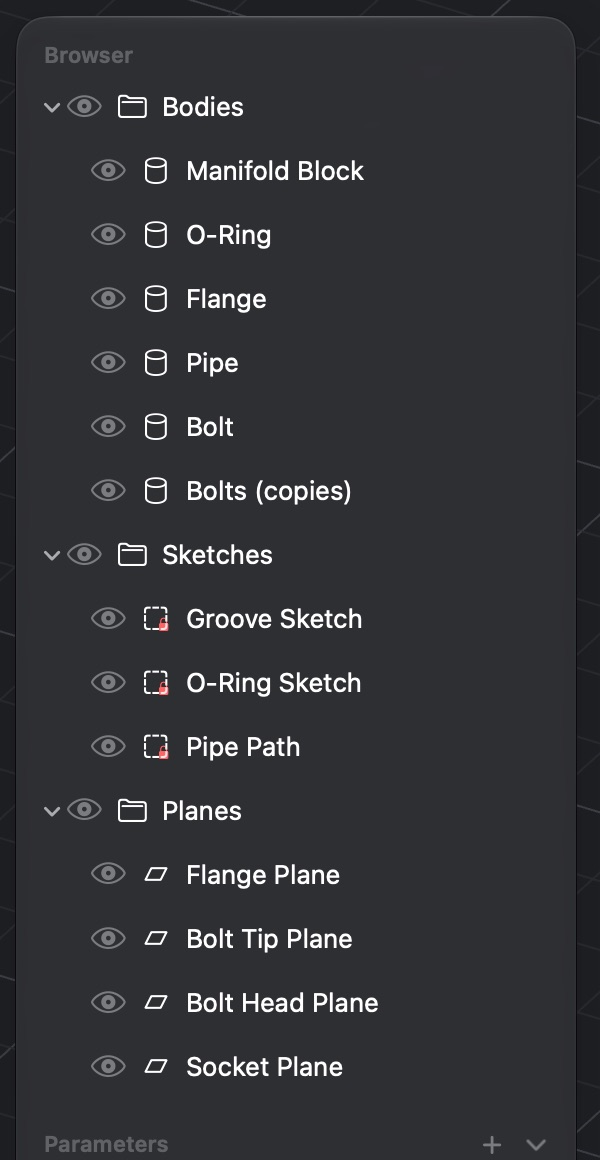
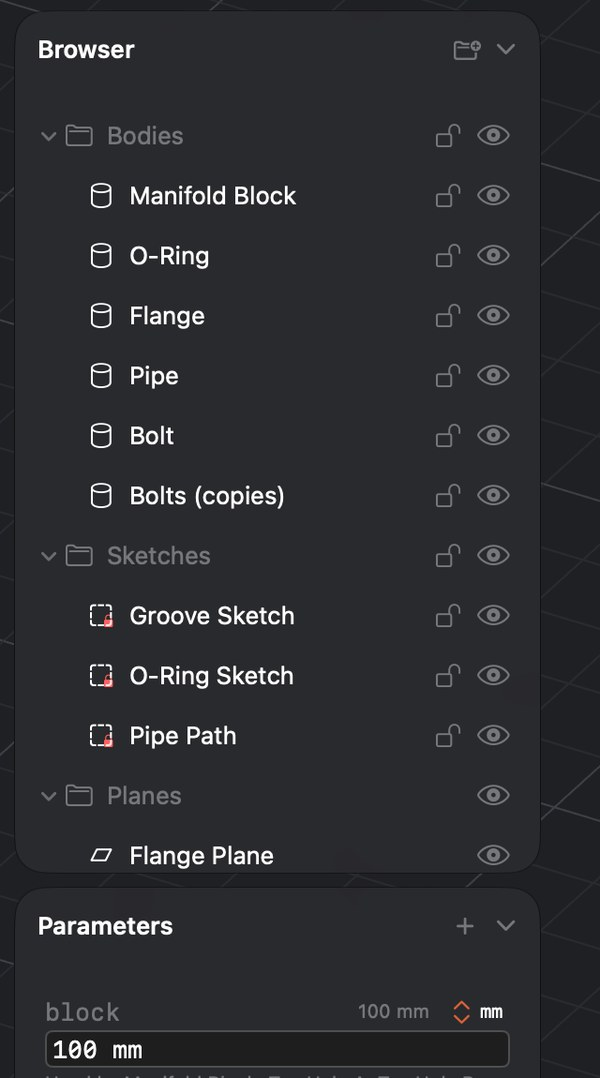
Docs: cover everything since 0.1.5, and retake the outdated screenshots
New pages: Work with an AI assistant, 3D Print Preview. Added: locking bodies and sketches, Slice View
and view roll while sketching, extrude Affected bodies, navigation presets and bindings, parameter
dragging and arrow-key nudging, copy and paste of bodies, parts opening as tabs, the 0.1.7 chamfer
and fillet refusals, and missing menu, toolbar and settings entries.

Screenshots: new browser-lock, print-preview, inspector-extrude-targets, sketch-slice-view; retaken
interface-overview, toolbar-design, toolbar-sketch, browser-panel, settings-navigation.
settings-ai is still to come (the page shows a placeholder for it).

diff --git a/website/src/docs/ai/assistant.md b/website/src/docs/ai/assistant.md
@@ -1,0 +1,90 @@
+---
+title: Work with an AI assistant
+description: Connect Claude to SimplMaker in one click, then let it build, change, check and look at your part while you watch.
+---
+
+SimplMaker can let an AI assistant work on your part. Connected to **Claude Desktop** or **Claude Code**, the assistant can see the parts you have open and change them while you watch. You ask in plain words, for example *"Make a key ring with my name on it, about 35 mm long and 3 mm thick"*, and the features appear on the [timeline](doc:concepts/timeline) one after another, with the sizes as [parameters](doc:concepts/parameters) you can change yourself afterwards.
+
+This is a beta feature. It is off until you turn it on.
+
+## What you need
+
+- A copy of SimplMaker with the AI connection included. If **Settings** has no **AI** pane, your version does not have it.
+- A running [trial](doc:reference/license) or a valid licence. The connection checks this on every request. Without one, the AI pane says *Waiting for a license* and starts by itself once the licence is valid.
+- Claude Desktop or Claude Code on the same Mac. [Get Claude](https://claude.ai/download) if you have neither.
+
+## Connect an assistant
+
+1. Open **SimplMaker → Settings…** and choose **AI**.
+2. Switch on **Let AI assistants work with SimplMaker**. The status line says whether it is off, waiting for an assistant, or connected.
+3. Under **Connect an assistant**, find the app you use.
+
+### Claude Desktop
+
+Press **Connect**. SimplMaker adds itself to Claude Desktop's list of tools. If Claude is already running it asks to **Quit and Reopen Claude**, because Claude only reads its list when it starts. Your conversations are kept, but anything you were in the middle of typing may be lost. When Claude is back, the button changes to **Connected**.
+
+### Claude Code
+
+Press **Copy Command** and paste it into a terminal once. It adds SimplMaker for every folder you use Claude Code in. The row says **Added**, and then **Connected** after Claude Code first reaches SimplMaker.
+
+If you have moved or reinstalled SimplMaker, the row says it was set up for another copy. Copy the command again to update it.
+
+![Settings, AI pane: the switch, the Connect buttons and what the assistant did.](shot:settings-ai)
+
+## Ask for something
+
+The pane lists a few things to try, each with a copy button:
+
+- *What's in my open SimplMaker part?*
+- *Make a key ring with the name Jane Doe on it, about 35 mm long and 3 mm thick.*
+- *Create a 60 × 40 × 20 mm box, then make it 10 mm taller.*
+
+The first time the assistant changes your part, Claude asks you for permission. Choose **Always allow** to stop it asking each time.
+
+## What the assistant can do
+
+- **Look.** Read the open parts, their features, bodies, sizes and parameters, what you have selected, and take a picture of the viewport. A picture can show only some bodies, cut the part open, or draw sketches.
+- **Build.** Make sketches and shapes: box, extrude, revolve, sweep, loft, pipe, rib, and the others in the toolbar.
+- **Finish.** Fillets, chamfers, holes, threads, shells, draft, project, move, scale, lay on floor, combine, split, mirror and pattern.
+- **Change.** Edit a feature, a sketch or a parameter, delete a feature, name, colour or hide a body, and undo or redo.
+- **Measure and check.** Measure distances and sizes. A **design check** looks over a part meant for printing and reports what is likely to go wrong: overhangs, thin walls and narrow gaps, tight or loose fits between separate bodies, a part that is bigger than the print bed or that floats above or sinks below the bed, and sizes that are not parameters. It only reports. It never changes anything.
+- **Files.** Export a part as STL or STEP, and import a STEP or STL file.
+- **Follow a guide.** A built-in design guide holds print-friendly sizes and recipes for things such as a snap-fit lid, a rounded box, a name tag, a screw-post case and a print-in-place hinge. The assistant reads it before it designs.
+
+The assistant works through the same features you use, so everything it makes is on the timeline and can be edited by hand.
+
+### Safe by design
+
+- **Every change is one step in Undo.** Press [[⌘Z]] to take it back.
+- **You see it happen.** The status bar says what the assistant is doing, such as *Creating Box1*.
+- **It sees only your open parts.** It cannot read other files on your Mac.
+- **Files go to one folder.** Exports are written to a folder called *SimplMaker Exports* in your Documents folder, and never over an existing file. Imports take only STEP and STL files that you give it a path to.
+
+## What the assistant did
+
+Under the connection settings, **What the assistant did** lists each action, newest first, with the time, which tool it used and how long it took. A tick is a change, an eye is something it only looked at, and a cross is something that failed. **Include looking** shows or hides the looking. **Copy** puts the whole log on the clipboard, and **Clear** empties it.
+
+## Advanced
+
+Open **Advanced** in the AI pane for what the connection is made of.
+
+| Item | What it is |
+|---|---|
+| **Address** | The local address SimplMaker listens on. It only answers on this Mac. |
+| **Secret** | A password that keeps other programs and websites from using the connection. **Show** reveals it and **Copy Secret** copies it. |
+| **Make a New Secret…** | Makes a new password. Every connection made with the old one stops working until you give it the new one. |
+| **Write Claude Desktop Configuration Again** | Repairs the Claude Desktop entry if you have changed it. |
+| **Copy Claude Code Command (network version)** | The same command as above, using the address instead of the built-in relay. |
+
+Anyone who has the secret and is on your Mac can read and change your open parts. Do not share it.
+
+## Turn it off
+
+Switch off **Let AI assistants work with SimplMaker**. SimplMaker stops answering assistants.
+
+## Good to know
+
+- Only **parts that are open** can be reached.
+- [Locking](doc:concepts/selecting) a body or sketch protects it from your own clicks. It does not stop the assistant, so tell it which parts to leave alone.
+- Browser folders and some newer options, such as choosing which bodies an extrude affects, are not yet available to the assistant.
+- An imported STL that is over the size limit has to be reduced first. The assistant cannot reduce it. Import it yourself with **File → Import → STL…**, which offers to reduce it.

diff --git a/website/src/docs/start/interface.md b/website/src/docs/start/interface.md
@@ -3,7 +3,7 @@ title: The interface
 description: Where everything is: the toolbar, browser, parameters, viewport, inspector and timeline.
 ---
 
-Each part opens in its own window with five areas.
+Each part opens as a tab, with five areas.
 
 ![The SimplMaker window: toolbar on top, browser on the left, viewport in the middle, inspector on the right, timeline along the bottom.](shot:interface-overview)
 
@@ -32,7 +32,7 @@ You start in design mode. The tools sit in groups, with the group's name underne
 | **Sketch** | Starts a sketch |
 | **Create** | [Extrude](doc:create/extrude), [Revolve](doc:create/revolve), [Sweep](doc:create/sweep), [Loft](doc:create/loft), [Rib](doc:create/rib), [Pipe](doc:create/pipe) |
 | **Shapes** | [Box, Cylinder, Sphere, Torus, Coil](doc:create/primitives) |
-| **Modify** | [Fillet and Chamfer](doc:modify/fillet-chamfer), [Hole](doc:modify/hole), [Thread](doc:modify/thread), [Shell](doc:modify/shell), [Draft](doc:modify/draft), [Project](doc:modify/project), [Move and Scale](doc:modify/move-scale), [Combine](doc:modify/combine) |
+| **Modify** | [Fillet and Chamfer](doc:modify/fillet-chamfer), [Hole](doc:modify/hole), [Thread](doc:modify/thread), [Shell](doc:modify/shell), [Draft](doc:modify/draft), [Project](doc:modify/project), [Move and Scale](doc:modify/move-scale), [Lay on Floor](doc:modify/lay-on-floor), [Combine](doc:modify/combine), [Split Body](doc:modify/split) |
 | **Construct** | [Plane](doc:create/plane), [Mirror and Pattern](doc:modify/mirror-pattern), [Canvas](doc:create/canvas) |
 | **Inspect** | [Measure](doc:modify/measure), [Section Analysis](doc:modify/section-analysis) |
 
@@ -52,7 +52,7 @@ Press **Sketch** and pick a plane or a face to enter sketch mode. The toolbar ch
 |---|---|
 | **Draw** | Line, Rectangle, Circle, Polygon, Arc, Spline, Gear, Point, Text |
 | **Modify** | Round Corner, Trim, Extend, Offset |
-| **Transform** | Move, Scale, Pattern |
+| **Transform** | Move, Scale, Pattern, Mirror |
 | **Constraints** | Dimension, Distance, Constrain, Construction |
 
 **Select** stands apart at the left. Press **Finish Sketch** at the right end to leave. See [Sketching](doc:sketch/start).
@@ -66,8 +66,10 @@ The browser lists what is in the part.
 - **Bodies**, **Sketches**, **Planes** and **Canvases** are folders. Planes and Canvases appear once you have some.
 - The eye beside a row shows or hides it. The eye on a folder shows or hides everything in it.
 - Make your own folders inside **Bodies** with the folder button in the browser header, or right-click **Bodies** and choose **New Folder**. A body's right-click menu has **Move to Folder**. Drag bodies onto a folder to fill it.
+- The **padlock** beside the eye locks a body or a sketch, so it cannot be picked or changed by accident. See [Lock bodies and sketches](doc:concepts/selecting).
 - Click a body to select it. **Double-click** to edit the feature that made it. Double-click a sketch to edit the sketch.
-- Right-click a row for more: rename, hide, suppress, move, appearance, export and delete.
+- Right-click a row for more: rename, hide, lock, suppress, move, appearance, export and delete.
+- The browser and the parameters are two separate panels. Each can be collapsed, and the divider between them can be dragged.
 - Below the folders are the **Parameters**. See [Parameters and expressions](doc:concepts/parameters).
 
 ## The viewport

diff --git a/website/src/docs/reference/menus.md b/website/src/docs/reference/menus.md
@@ -10,7 +10,7 @@ description: What is in each menu, and where to find every command.
 | **About SimplMaker** | Version, credits and open-source licences |
 | **Check for Updates…** | Looks for a new version |
 | **License…** | Enter or manage your licence key. Also **Buy SimplMaker…** during the trial. |
-| **Settings…** ([[⌘,]]) | The settings window. See [Settings](doc:reference/settings). |
+| **Settings…** ([[⌘,]]) | The settings window, including the AI connection. See [Settings](doc:reference/settings) and [Work with an AI assistant](doc:ai/assistant). |
 
 ## File
 
@@ -31,6 +31,8 @@ description: What is in each menu, and where to find every command.
 
 Standard **Undo** ([[⌘Z]]), **Redo** ([[⇧⌘Z]]), **Cut**, **Copy**, **Paste**, **Delete** and **Select All**.
 
+**Copy** and **Paste** also work on bodies: copy a body and paste it into the same part, another part or another window. It comes in as an imported body. See [Files](doc:concepts/files).
+
 ## View
 
 | Item | Does |
@@ -39,6 +41,7 @@ Standard **Undo** ([[⌘Z]]), **Redo** ([[⇧⌘Z]]), **Cut**, **Copy**, **Paste
 | **Standard Views** | Top, Front, Right and Home |
 | **Orthographic Projection** | Switches between perspective and orthographic |
 | **Visual Style** | Shaded, wireframe and hidden-edge styles |
+| **FDM 3D Print Preview** | Draw the bodies like a printed part, with layer lines. Shaded styles only. See [3D Print Preview](doc:print/print-preview). |
 | **Section Analysis** | Turn the cut through the bodies on or off (see [Section Analysis](doc:modify/section-analysis)) |
 | **Show Grid**, **Show Axes** | Toggle the reference lines |
 | **Show Constraints** | Show or hide sketch constraint symbols |
@@ -54,7 +57,7 @@ Standard **Undo** ([[⌘Z]]), **Redo** ([[⇧⌘Z]]), **Cut**, **Copy**, **Paste
 | **New Sketch…** | Starts a sketch: pick a plane or face |
 | **New Sketch On** | **XY Plane**, **XZ Plane**, **YZ Plane** or **Selected Face** |
 
-While you are editing a sketch, the menu also lists the sketch tools, **Offset Selection…**, **Move Selection**, **Scale Selection…**, **Pattern Selection**, **Mirror Selection** and **Finish Sketch**.
+While you are editing a sketch, the menu also lists the sketch tools, **Offset Selection…**, **Move Selection**, **Scale Selection…**, **Pattern Selection**, **Mirror Selection**, **Slice View** (see [Starting a sketch](doc:sketch/start)) and **Finish Sketch**.
 
 ## Create
 
@@ -70,7 +73,7 @@ While you are editing a sketch, the menu also lists the sketch tools, **Offset S
 
 ## Window
 
-Standard window commands, plus **Welcome to SimplMaker** ([[⇧⌘1]]), and the licence window.
+Standard window commands, including **Move Tab to New Window** and **Merge All Windows** (parts open as tabs), plus **Welcome to SimplMaker** ([[⇧⌘1]]), and the licence window.
 
 ## Help
 

diff --git a/website/src/docs/print/print-preview.md b/website/src/docs/print/print-preview.md
@@ -1,0 +1,42 @@
+---
+title: 3D Print Preview
+description: Look at a part the way an FDM printer would build it: layer lines, a top skin and the outer perimeters.
+---
+
+**FDM 3D Print Preview** draws your bodies as if they had been printed on a filament (FDM) printer. You see the layer lines on the walls, the diagonal skin on the top, and the lines the nozzle follows round the edge of each flat face. It is a quick way to judge how a part will look and feel before you slice it.
+
+It is a look, not a slice. SimplMaker does not make G-code, and the lines are an approximation. Use your slicer for the real thing.
+
+## Turn it on
+
+Choose **View → FDM 3D Print Preview**, or right-click in the viewport and choose **FDM 3D Print Preview**. Choose it again (the right-click item then says **Leave 3D Print Preview**) to turn it off.
+
+The preview is a view setting. It is not saved with the part, and it does not change the part. It works with the shaded [visual styles](doc:start/navigation) only, so the menu item is greyed out while a wireframe style is on. The body's edge lines are hidden while it is on, so the layers show.
+
+![A part in 3D Print Preview, with the options panel top left.](shot:print-preview)
+
+## Set the layer height and the nozzle
+
+A small panel opens in the top left corner of the view with two choices.
+
+| Option | Choices (mm) | What it changes |
+|---|---|---|
+| **Layer height** | 0.12, 0.16, 0.20, 0.24 | How far apart the layer lines are |
+| **Nozzle** | 0.2, 0.4, 0.6, 0.8 | How wide the perimeter lines are |
+
+The start is 0.20 mm and a 0.4 mm nozzle. The close button on the panel hides it. The preview stays on. The choices are kept until you quit SimplMaker. They are not saved with the part.
+
+## What to look for
+
+- **Layer lines** on walls that lean or curve show where a slope will look stepped. A smaller layer height makes the steps finer.
+- **Top surfaces** show the diagonal skin, so you can see how a flat top will look.
+- **Edges of flat faces** show two perimeter lines, the width of the nozzle you chose. A wall or rib that is only as thick as these lines is a sign it may be too thin to print well. See the [design tips](doc:print/design-tips).
+
+## Combine it with a cut
+
+The preview works together with [Section Analysis](doc:modify/section-analysis), so you can cut a part open and still see the layers on the outside.
+
+## Good to know
+
+- The options panel is not shown while you sketch.
+- In a wireframe style the bodies are drawn as usual, without layers. Go back to a shaded style and the preview is there again.

diff --git a/website/src/docs/start/navigation.md b/website/src/docs/start/navigation.md
@@ -13,7 +13,7 @@ description: Orbit, pan and zoom with a trackpad or mouse, the view cube, standa
 | Rotate with two fingers | **Spin** the view around the line of sight |
 | Drag on empty space | **Orbit** |
 
-If you would rather have scrolling orbit, and [[⇧]]-scrolling pan, change it in **Settings → Navigation**.
+These are the defaults. Choose another way of navigating, or change what each input does, in **Settings → Navigation**. See [Make navigation your own](doc:start/navigation#make-navigation-your-own) below.
 
 ## Mouse
 
@@ -23,7 +23,18 @@ If you would rather have scrolling orbit, and [[⇧]]-scrolling pan, change it i
 | Right-drag or middle-drag | **Pan** |
 | Scroll wheel | **Zoom** |
 
-**Settings → Navigation → Invert mouse-wheel zoom** reverses the wheel.
+While you sketch, hold [[⌥]] and drag on empty space to **roll** the view round on the paper.
+
+## Make navigation your own
+
+**Settings → Navigation** sets what the mouse, the wheel and the trackpad do.
+
+- **Navigate like** picks a ready-made set of controls that copies another 3D app: **SimplMaker**, **Blender**, **Fusion**, **Onshape** or **SolidWorks**. Your direction and speed choices stay as they are. Once you change any single control by hand, the list shows **Custom**.
+- **Mouse** and **Trackpad** list what each input does: the left, right and middle buttons, the wheel, and the trackpad's scroll. For each one you choose **Orbit**, **Pan**, **Zoom** or **Off**, separately for plain, [[⇧]], [[⌃]] and [[⌥]]. (**Roll**, for sketches, is also on the list.) The left button only navigates on empty space. On a face, an edge or a handle it picks or drags that instead.
+- **Rotate gesture spins the view** turns the trackpad's two-finger rotate on or off.
+- **Invert** switches reverse orbit up and down, orbit left and right, pan up and down, pan left and right, and zoom.
+- **Orbit speed** and **Zoom speed** are sliders.
+- **Reset Navigation** goes back to the SimplMaker controls.
 
 ## The view cube
 

diff --git a/website/src/docs/concepts/files.md b/website/src/docs/concepts/files.md
@@ -5,7 +5,9 @@ description: How parts are saved, autosave and versions, opening and importing f
 
 ## Parts are documents
 
-SimplMaker is a normal Mac document app. Each part opens in its own window, with **New** ([[⌘N]]), **Open** ([[⌘O]]), **Open Recent**, **Save** ([[⌘S]]), **Duplicate** and **Revert To**. Macs can also group windows as tabs: **Window → Merge All Windows**.
+SimplMaker is a normal Mac document app. Each part opens as a **tab** in the same window, and the tab bar shows even when only one part is open. The part's name is in its tab. Use **New** ([[⌘N]]), **Open** ([[⌘O]]), **Open Recent**, **Save** ([[⌘S]]), **Duplicate** and **Revert To** as in any Mac app. The **+** at the right end of the tab bar starts a new part.
+
+To give a part a window of its own, drag its tab out of the tab bar, or choose **Window → Move Tab to New Window**. **Window → Merge All Windows** brings separate windows back together as tabs.
 
 Parts are saved as `.simplmaker` files.
 
@@ -22,6 +24,14 @@ SimplMaker saves your work automatically and keeps earlier versions. Choose **Fi
 ## Open example parts
 
 **File → Open Example Parts** opens one of the built-in examples as a new untitled part. See [Examples and the tutorial](doc:start/examples-and-tutorial).
+
+## Copy and paste bodies
+
+Select a body and choose **Edit → Copy** ([[⌘C]]). Then **Edit → Paste** ([[⌘V]]) into the same part, into another part, or into a window of another document. The body travels as a STEP file on the clipboard.
+
+A pasted body arrives as an **Import** body, like any [imported](doc:concepts/files#import) part: its history stays behind, so you can fillet, cut or move it, but you cannot go back into the sketches that made it. The **Move** tool opens at once, so you can slide the copy off the original.
+
+To make a copy that keeps its history, use [Pattern](doc:modify/mirror-pattern) or **File → Duplicate** for the whole part.
 
 ## Import
 

diff --git a/website/src/docs/reference/settings.md b/website/src/docs/reference/settings.md
@@ -22,10 +22,15 @@ Open **SimplMaker → Settings…** ([[⌘,]]). The panes are along the top.
 
 | Setting | What it does |
 |---|---|
-| **Two-finger scroll** | **Pan** (like Apple's 3D viewers) or **Orbit** (like many CAD apps). Hold [[⇧]] while scrolling to do the other one. |
-| **Invert mouse-wheel zoom** | Reverses the wheel |
+| **Navigate like** | A ready-made set of controls: **SimplMaker**, **Blender**, **Fusion**, **Onshape** or **SolidWorks**. Shows **Custom** once you change a control by hand. |
+| **Mouse** | What the left, right and middle buttons and the wheel do, with and without [[⇧]], [[⌃]] or [[⌥]]: **Orbit**, **Pan**, **Zoom** or **Off** |
+| **Trackpad** | What two-finger scroll does (**Pan** like Apple's 3D viewers, or **Orbit** like many CAD apps), and whether the rotate gesture spins the view |
+| **Invert** | Orbit up and down, orbit left and right, pan up and down, pan left and right, and zoom (wheel, scroll and drag) |
+| **Orbit speed**, **Zoom speed** | How fast the view turns and zooms |
+| **Reset Navigation** | Back to the SimplMaker controls |
 
-Pinch zooms, rotate spins the view, and dragging on empty space orbits.
+The details are in [Navigating the view](doc:start/navigation#make-navigation-your-own).
+
 
 ## Viewport
 
@@ -40,6 +45,10 @@ Pinch zooms, rotate spins the view, and dragging on empty space orbits.
 | **Antialiasing** | Smooths jagged edges: **Off**, **2×**, **4×** or **8×**. Takes effect the next time SimplMaker starts. 4× is hardly noticeable on Apple silicon. |
 | **Show axes** | Shows the coordinate axes |
 | **Show sketch constraints** | Shows the constraint symbols |
+
+## AI
+
+Appears in the settings window when this version of SimplMaker includes the AI connection. It connects an AI assistant such as Claude to SimplMaker. See [Work with an AI assistant](doc:ai/assistant).
 
 ## Shortcuts
 

diff --git a/website/src/docs/create/extrude.md b/website/src/docs/create/extrude.md
@@ -49,6 +49,18 @@ A curved line with a **dot** hangs above the arrow. Drag the dot round the line 
 
 With Two Directions or Mirrored, the sides lean away from the sketch plane on both sides, so the shape has a ridge there. A taper that would close the shape up before it reaches the end fails with a message, and the last good shape stays on screen.
 
+## Choose which bodies it affects
+
+When the **Operation** is **Join**, **Cut** or **Intersect**, the inspector lists the bodies that exist before the extrude under **Affected bodies**. Tick the ones it should work on.
+
+- **Automatic** is the start. A **Cut** removes material from every body the shape passes through. A **Join** or **Intersect** works on the newest body.
+- **Join** with more than one body ticked merges them all into one.
+- **Cut** skips a ticked body the shape does not reach.
+- Untick everything and the extrude has nothing to work on, so it shows an error.
+- **Choose Automatically** goes back to the automatic choice.
+
+![Affected bodies in the extrude inspector.](shot:inspector-extrude-targets)
+
 ## Extrude a face
 
 Select a **flat face** of a body and press [[E]] to pull it out. A negative distance pushes it in. Only flat faces can be extruded.
@@ -64,6 +76,7 @@ Select a **flat face** of a body and press [[E]] to pull it out. A negative dist
 | **Distance** | How far. It takes expressions. |
 | **Taper** | The angle the sides lean, in degrees. Negative narrows, positive widens. It takes expressions. |
 | **Operation** | New Body, Join, Cut or Intersect |
+| **Affected bodies** | For Join, Cut and Intersect: which bodies the extrude works on. See above. |
 | **Flip direction** | Extrudes the other way |
 | **Profiles** | How many profiles are used. **Reselect…** lets you pick them again. |
 

diff --git a/website/src/docs/concepts/selecting.md b/website/src/docs/concepts/selecting.md
@@ -44,3 +44,16 @@ Open curves and lines are picked directly as **curves**. Rib, Pipe and Sweep tak
 ## Picking again later
 
 Features built from profiles have a **Reselect…** button in the inspector. It shows the sketch again so you can click different profiles, then press [[Return]] to keep them or [[Esc]] to leave things as they were.
+
+## Lock bodies and sketches
+
+Lock a body or a sketch when it is finished and you do not want to nudge it by accident while you work on something nearby.
+
+- Click the **padlock** beside the eye of a body or a sketch in the [browser](doc:start/interface). The padlock on a folder, or on the **Bodies** and **Sketches** rows, locks everything inside. You can also right-click a row and choose **Lock Body**, **Lock Sketch** or **Unlock**.
+- A locked body or sketch is still drawn, but it cannot be hovered, picked, selected, edited, suppressed, moved or deleted.
+- Locking does not change the shape, so nothing rebuilds. It is saved with the part, and it is one step in **Undo**.
+- Click the padlock again to unlock.
+
+![The browser with a locked body and a locked sketch.](shot:browser-lock)
+
+Only bodies and sketches can be locked. Planes and canvases cannot.

diff --git a/website/src/docs/sketch/start.md b/website/src/docs/sketch/start.md
@@ -32,7 +32,17 @@ While you sketch:
 - The status bar says how many **degrees of freedom** the sketch has left. See [Constraints](doc:sketch/constraints).
 - The inspector shows the sketch's plane, its status, its curves, constraints and dimensions.
 
-Orbiting works as usual: drag on empty space to turn the view.
+Orbiting works as usual: drag on empty space to turn the view. Hold [[⌥]] while you drag to **roll** the picture round on the paper instead.
+
+Faces are lit evenly while you sketch, so no glare sweeps over a flat wall as you turn the view.
+
+### Slice View
+
+Sometimes the plane you sketch on is hidden behind the rest of the part, for example when you sketch between two walls. **Slice View** cuts away everything that stands between the sketch plane and the camera, so you can reach it.
+
+![A sketch between two walls, with Slice View on.](shot:sketch-slice-view)
+
+It switches on by itself when the plane is hidden, and SimplMaker tells you why the first time. Turn it on or off with **Sketch → Slice View**, or with the **Slice View** switch in the sketch's inspector. It only changes what you see. It does not change the part.
 
 ## Finish a sketch
 

diff --git a/website/src/docs/concepts/parameters.md b/website/src/docs/concepts/parameters.md
@@ -13,7 +13,9 @@ Parameters live below the folders in the browser.
 
 - Press **+** to add one. It starts as `p1` with the value `10 mm`.
 - **Double-click** the name to rename it. Every expression that uses it follows.
-- Click the value to edit it. Press [[Return]] and the model rebuilds.
+- Click the value to edit it. Press [[Return]] and the model rebuilds. [[Tab]] moves to the next parameter's value, and [[⇧]][[Tab]] to the previous one. When the value is a plain number, [[↑]] and [[↓]] nudge it up and down.
+- **Drag a parameter's name** left or right to change its value without typing. It moves in whole units. Hold [[⇧]] to move in tens, or [[⌥]] to move in tenths.
+- **Right-click** a parameter to rename or delete it.
 - Under each parameter, SimplMaker lists which features **use** it, so you can see what a change will touch. It says *Not used yet* until you use it.
 - The small unit menu on the right of a parameter (`mm`) says what kind of value it is: **Length (mm)**, **Angle (deg)** or **Number**. The calculated value is shown beside it.
 

diff --git a/website/src/docs/reference/troubleshooting.md b/website/src/docs/reference/troubleshooting.md
@@ -11,7 +11,7 @@ The geometry could not be made. Select the feature. The inspector shows the reas
 
 | Message or cause | Try |
 |---|---|
-| **Too large for the neighbouring faces** (fillet, chamfer) | Make the radius or distance smaller |
+| **Too large for the neighbouring faces**, or **size too large for the adjacent faces** (fillet, chamfer) | Make the radius or distance smaller. A chamfer as big as the radius of a rounded corner it crosses is refused, and so is a fillet wider than its face. |
 | **A wall can't follow a corner tighter than it is thick** (shell) | Use a thinner wall, or move the shell earlier in the timeline, before the fillets |
 | **The hole diameter and depth must be positive** | Check the values, and any parameters they use |
 | **Lost a face or edge** | An earlier change removed what the feature was attached to. Pick it again, with **Reselect…** where the feature has it, or delete and remake it |
